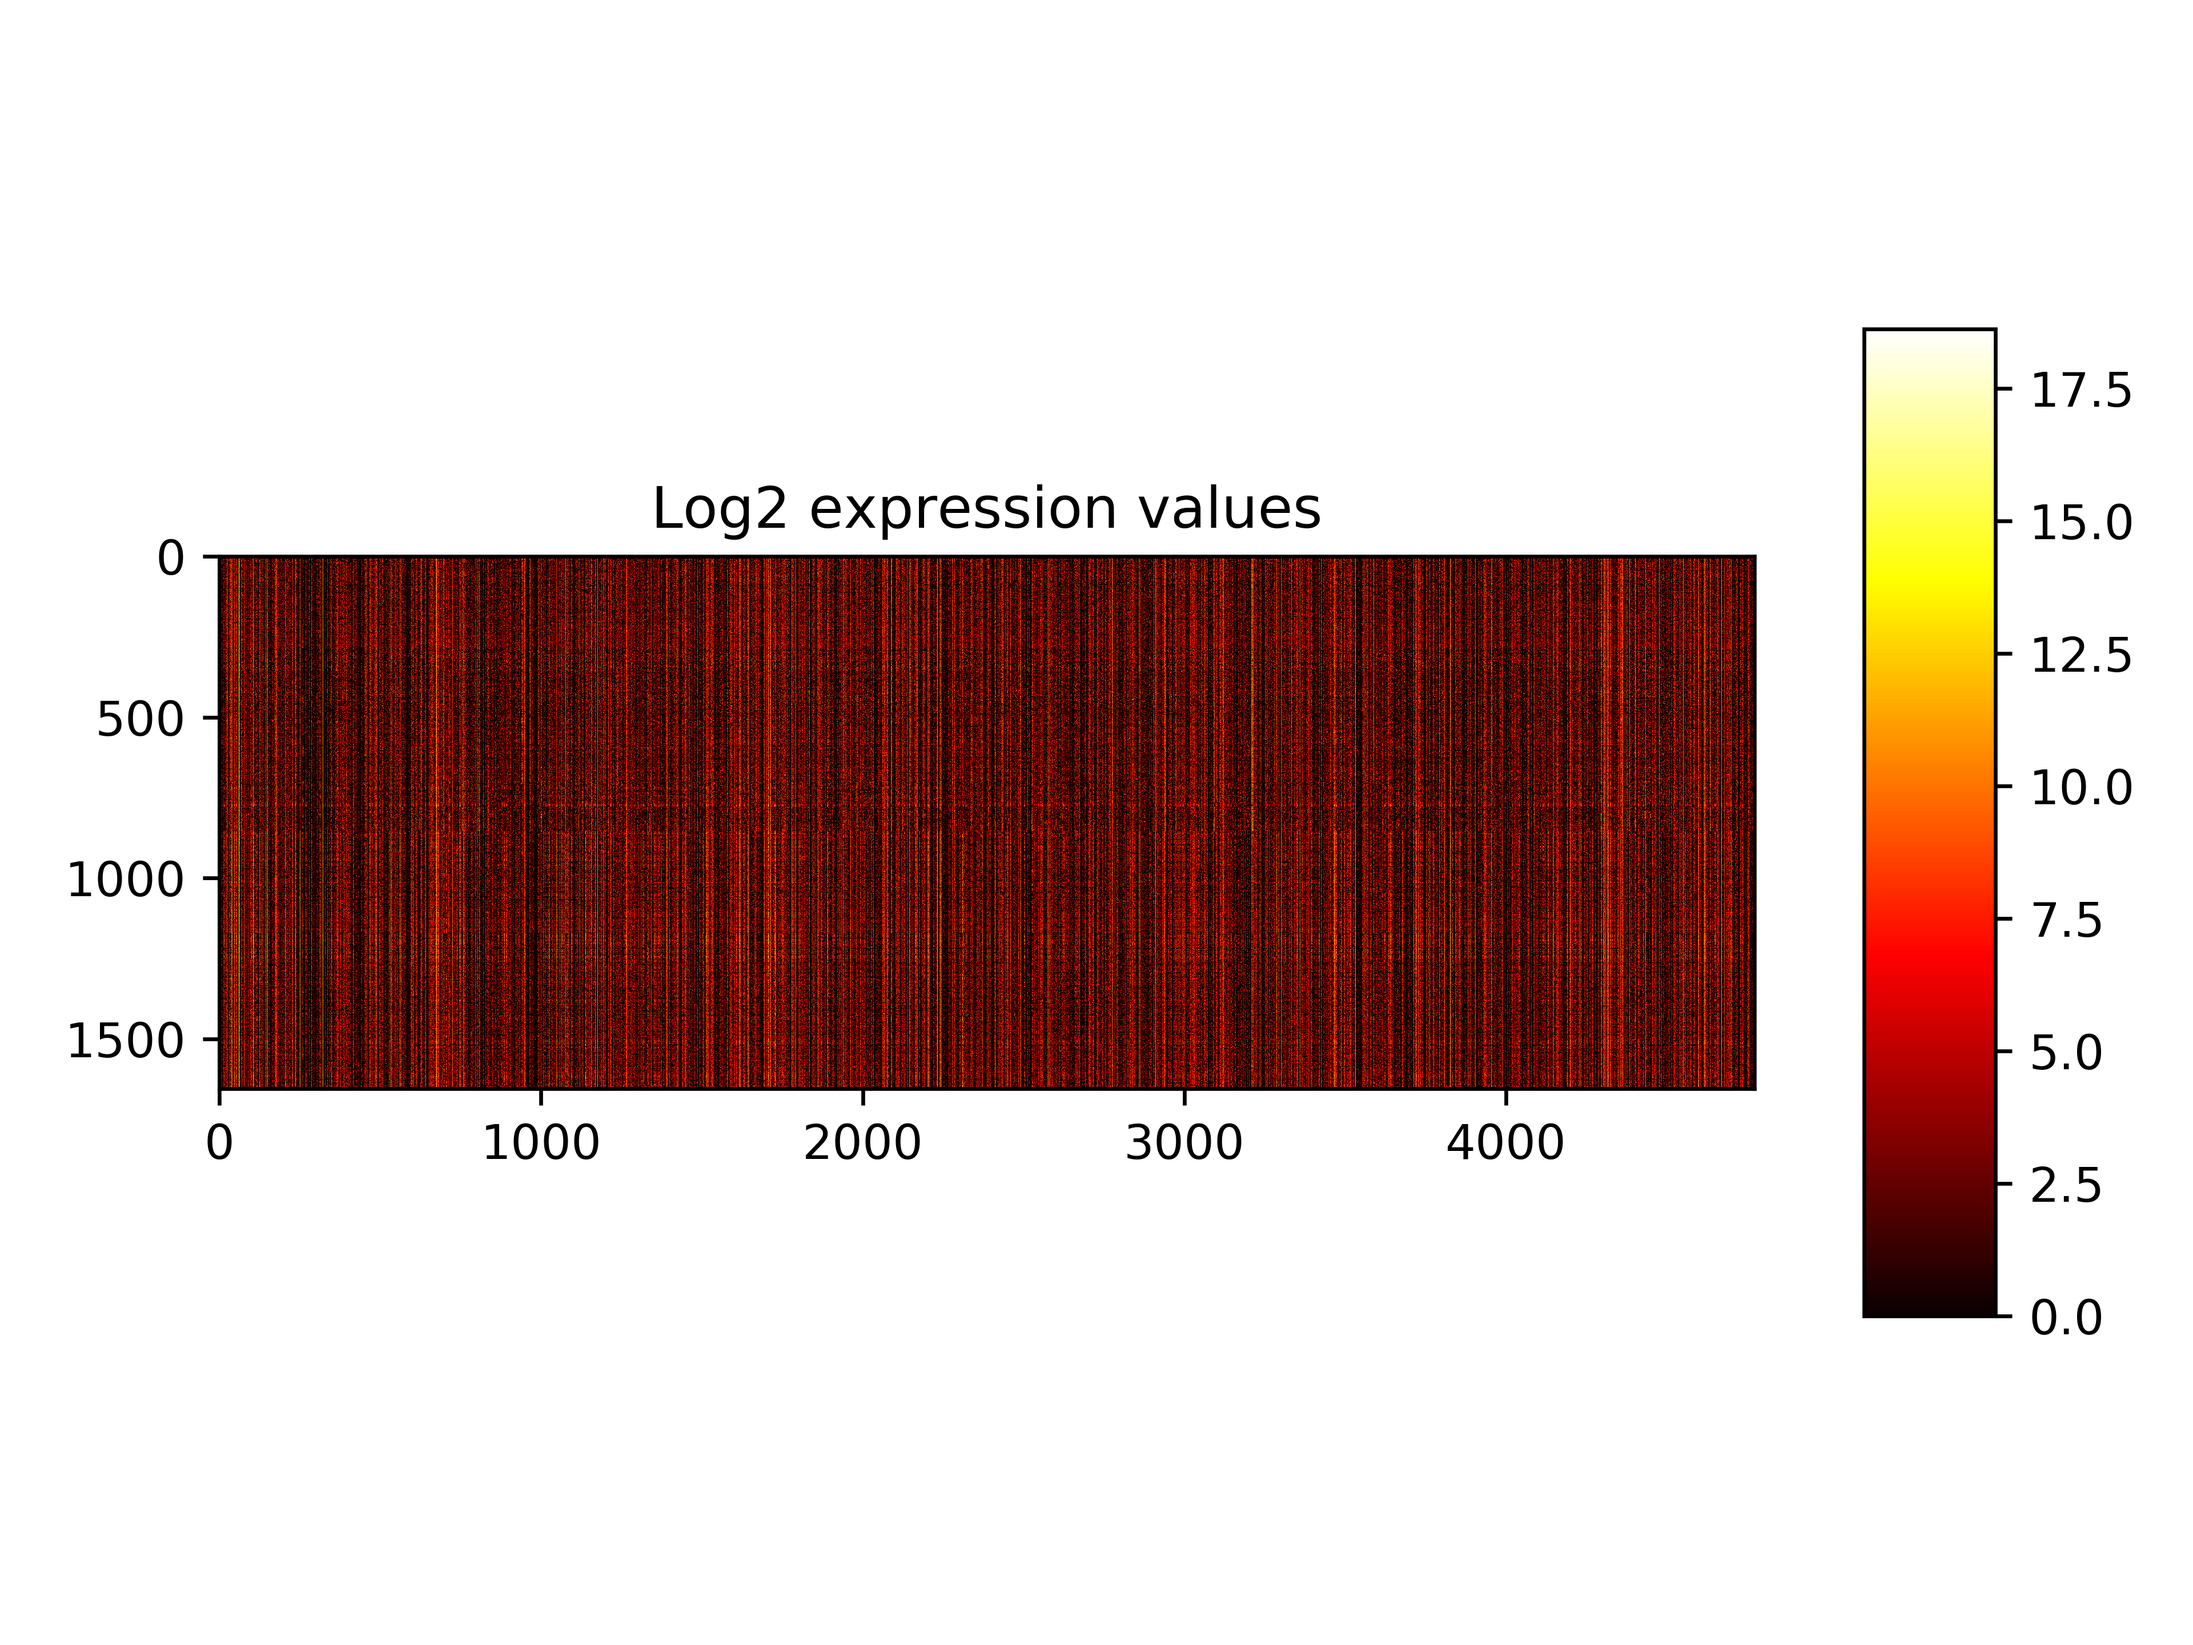
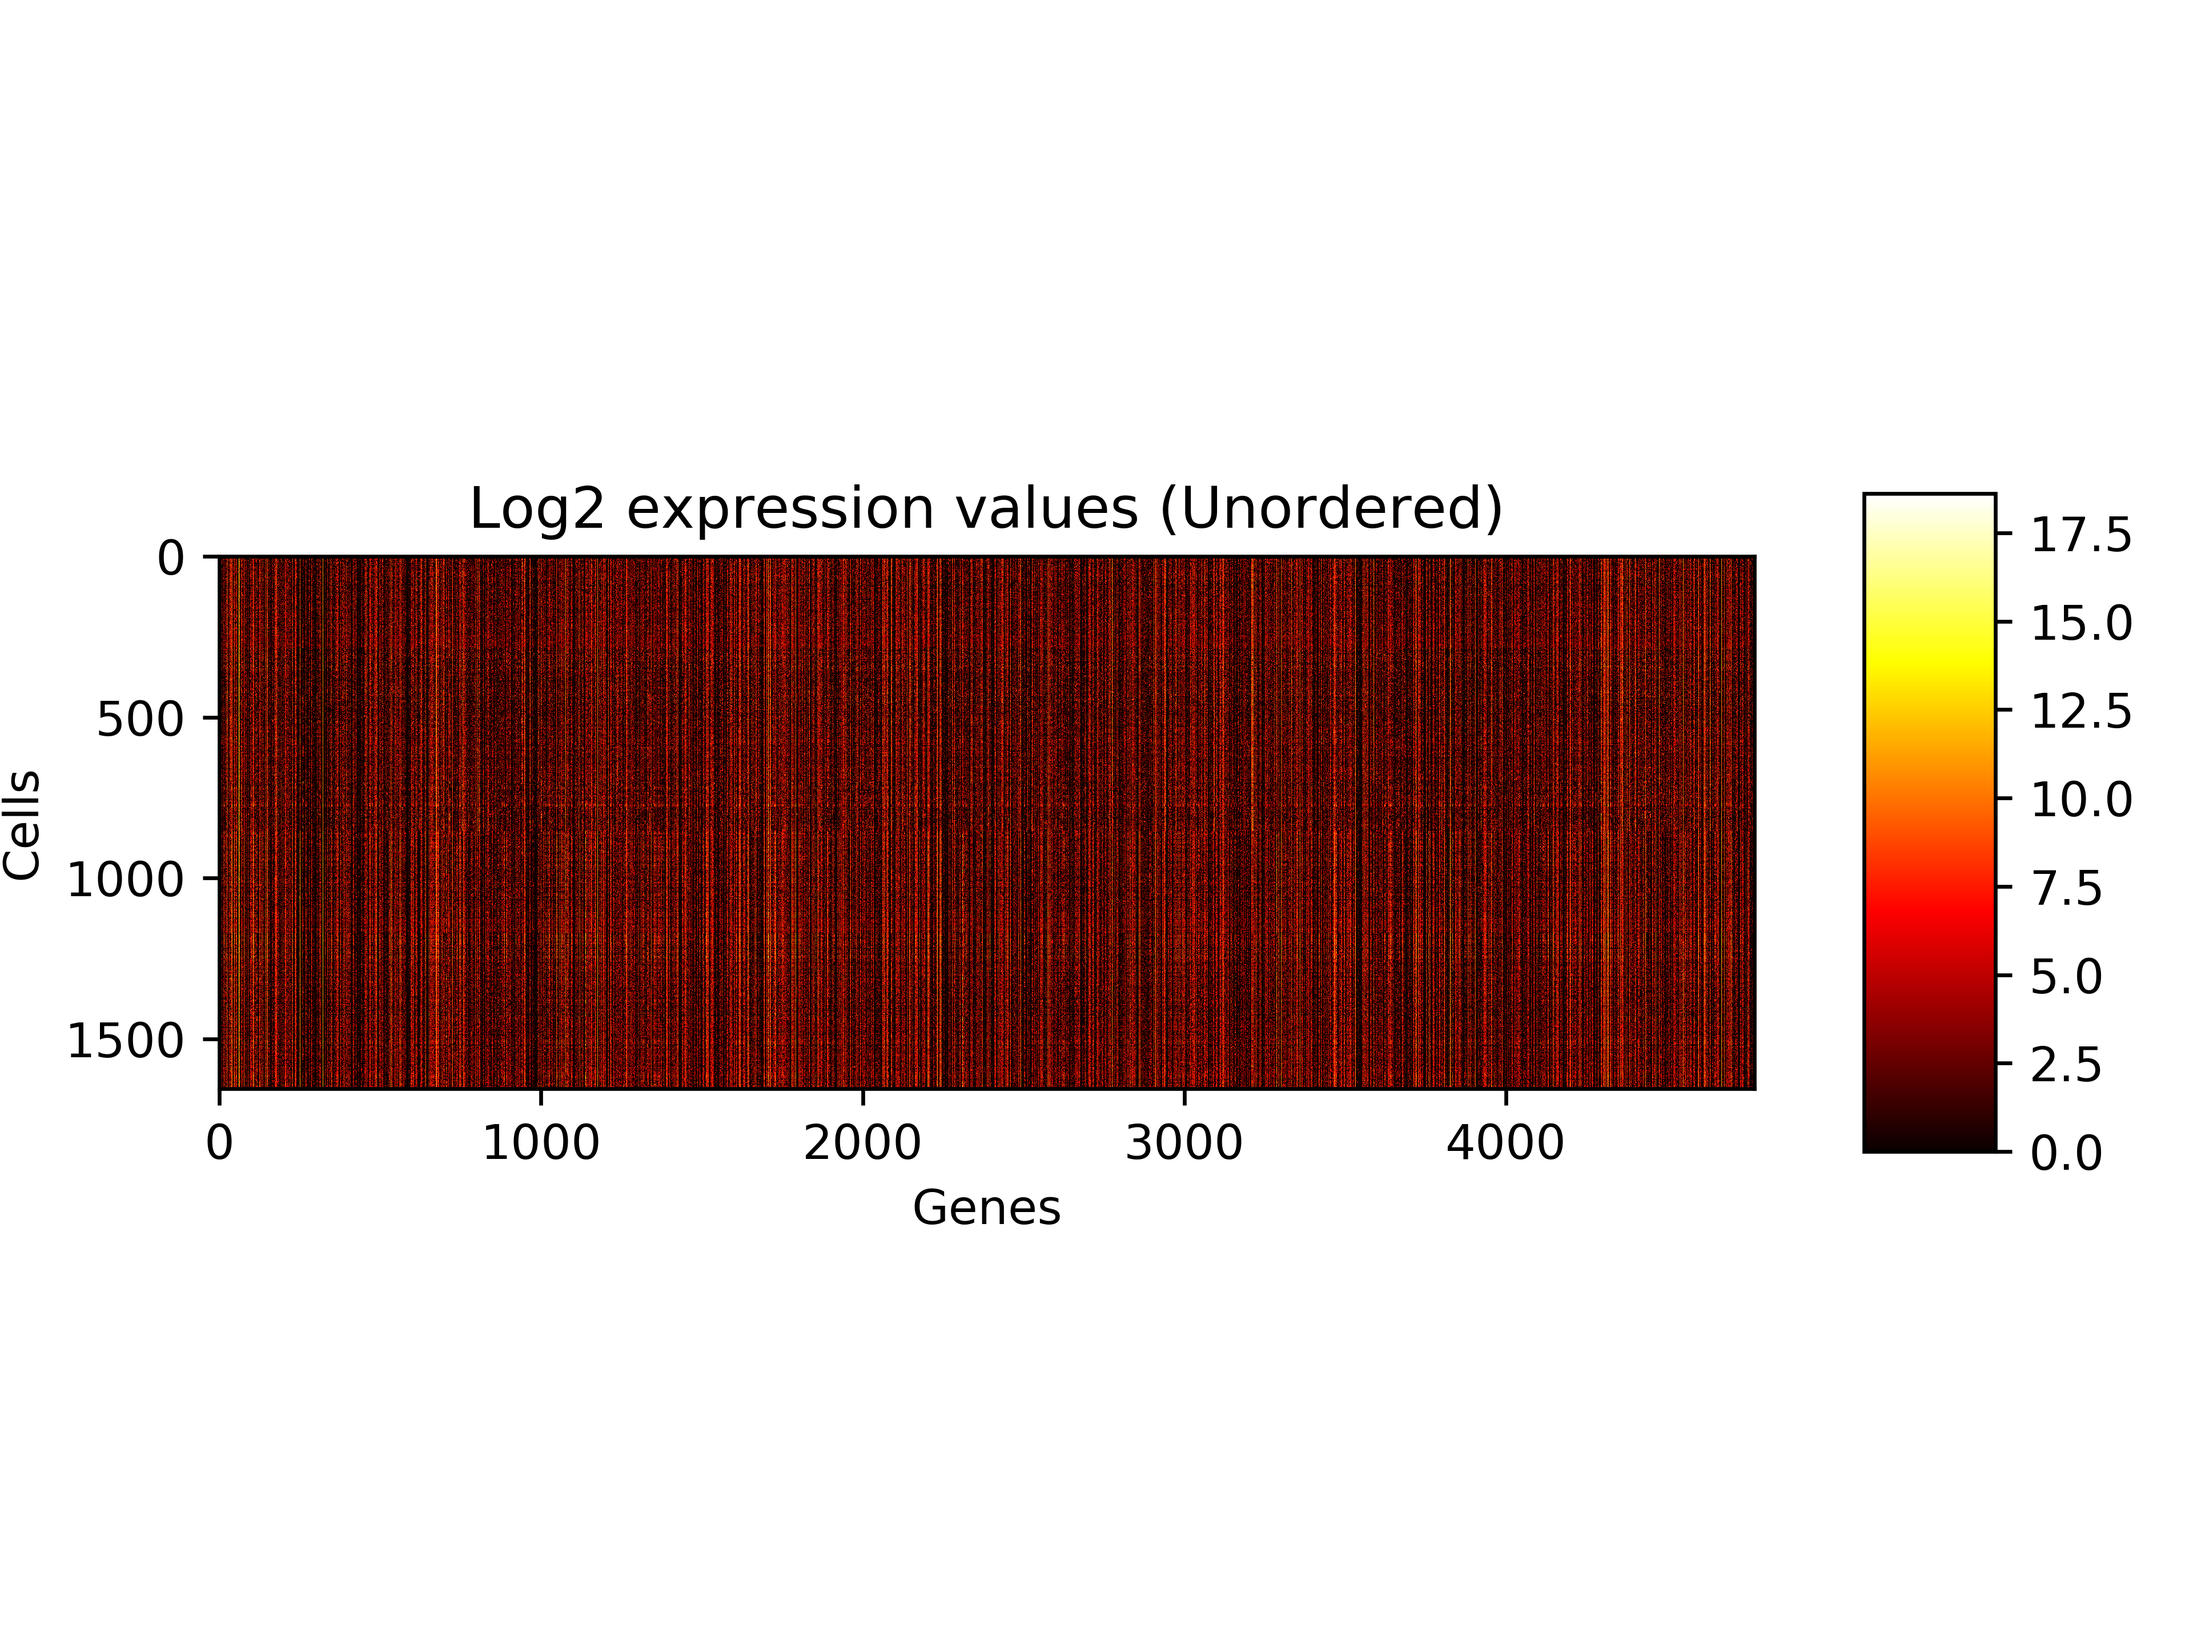
transfer

diff --git a/figures.py b/figures.py
@@ -58,8 +58,10 @@ header = np.load('header_backup.npy')
 
 cfig = plt.figure("raw_expression_heatmap")
 ax1 = cfig.add_axes((.1,0,.7,1))
-ax2 = cfig.add_axes((.85,.2,.06,.6))
+ax2 = cfig.add_axes((.85,.3,.06,.4))
 im = ax1.imshow(counts, cmap='hot')
-ax1.set_title("Log2 expression values")
+ax1.set_xlabel("Genes")
+ax1.set_ylabel("Cells")
+ax1.set_title("Log2 expression values (Unordered)")
 cfig.colorbar(mappable=im,cax=ax2)
 plt.savefig('figures/raw_expression_heatmap', dpi=600)
